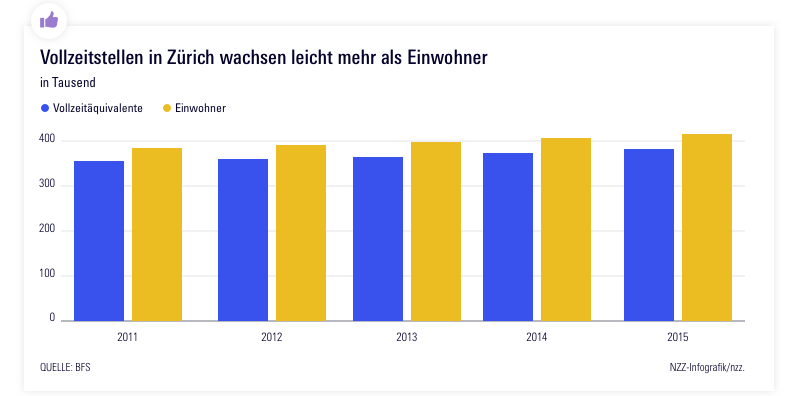
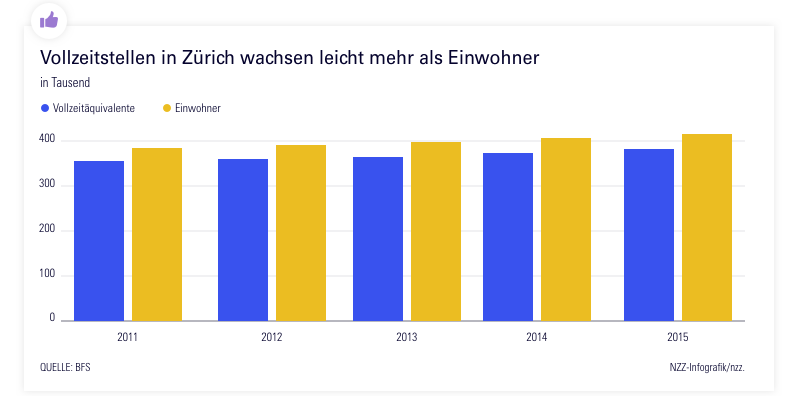
Add retina example images

Changed region(s): [[0.0301, 0.1212, 0.6917, 0.303], [0.2105, 0.2424, 0.2707, 0.303]]

diff --git a/pages/style/basic-charts.md b/pages/style/basic-charts.md
@@ -15,12 +15,12 @@ Do not extend lines underneath/above labels.
 ```image
 plain: true
 span: 6
-src: "assets/basic-charts/bar-charts_axis@1x.png"
+src: "assets/basic-charts/bar-charts_axis@1x.png 1x, assets/basic-charts/bar-charts_axis@2x.png 2x"
 ```
 ```image
 plain: true
 span: 6
-src: "assets/basic-charts/bar-charts_axis-print@1x.png"
+src: "assets/basic-charts/bar-charts_axis-print@1x.png 1x, assets/basic-charts/bar-charts_axis-print@2x.png 2x"
 ```
 ### X-Axis
 Do remove year labels when several years are displayed and the *focus of the graphic is the trend*.
@@ -31,12 +31,12 @@ Do not extend lines underneath/above labels.
 ```image
 plain: true
 span: 6
-src: "assets/basic-charts/bar-charts_axis-b@1x.png"
+src: "assets/basic-charts/bar-charts_axis-b@1x.png 1x, assets/basic-charts/bar-charts_axis-b@2x.png 2x"
 ```
 ```image
 plain: true
 span: 6
-src: "assets/basic-charts/bar-charts_axis-b-print@1x.png"
+src: "assets/basic-charts/bar-charts_axis-b-print@1x.png 1x, assets/basic-charts/bar-charts_axis-b-print@2x.png 2x"
 ```
 
 ### Direct Annotation
@@ -47,12 +47,12 @@ Do not display axis and exact values directly annotated.
 ```image
 plain: true
 span: 6
-src: "assets/basic-charts/bar-charts_axis-c@1x.png"
+src: "assets/basic-charts/bar-charts_axis-c@1x.png 1x, assets/basic-charts/bar-charts_axis-c@2x.png 2x"
 ```
 ```image
 plain: true
 span: 6
-src: "assets/basic-charts/bar-charts_axis-c-print@1x.png"
+src: "assets/basic-charts/bar-charts_axis-c-print@1x.png 1x, assets/basic-charts/bar-charts_axis-c-print@2x.png 2x"
 ```
 
 ### Legends
@@ -63,13 +63,13 @@ Do not put legend information below a chart or map
 ```image
 plain: true
 span: 6
-src: "assets/basic-charts/bar-charts_legend@1x.png"
+src: "assets/basic-charts/bar-charts_legend@1x.png 1x, assets/basic-charts/bar-charts_legend@2x.png 2x"
 ```
 
 ```image
 plain: true
 span: 6
-src: "assets/basic-charts/bar-charts_legend-print@1x.png"
+src: "assets/basic-charts/bar-charts_legend-print@1x.png 1x, assets/basic-charts/bar-charts_legend-print@2x.png 2x"
 ```
 
 Do use dotted lines for prognosis or prediction in line charts
@@ -77,7 +77,7 @@ Do use hatched areas for prognosis or prediction in bar charts
 ```image
 plain: true
 span: 6
-src: "assets/basic-charts/bar-charts_prognosis@1x.png"
+src: "assets/basic-charts/bar-charts_prognosis@1x.png 1x, assets/basic-charts/bar-charts_prognosis@2x.png 2x"
 ```
 ### Annotations
 
